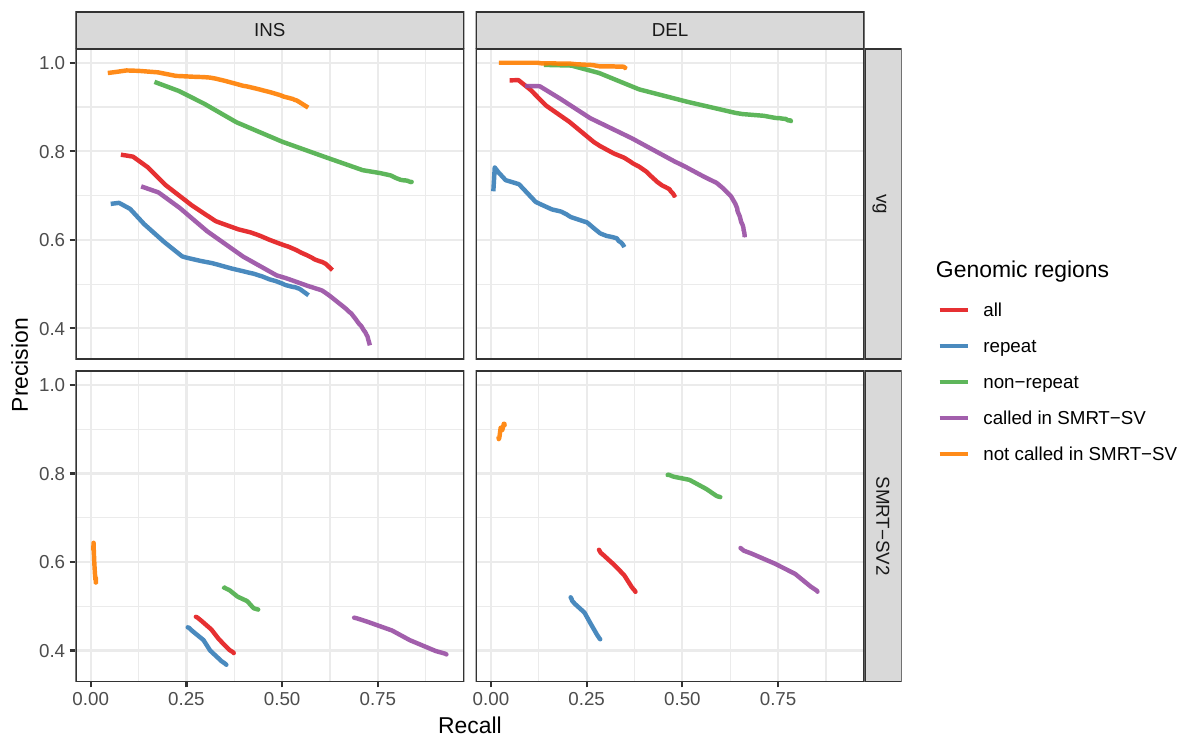
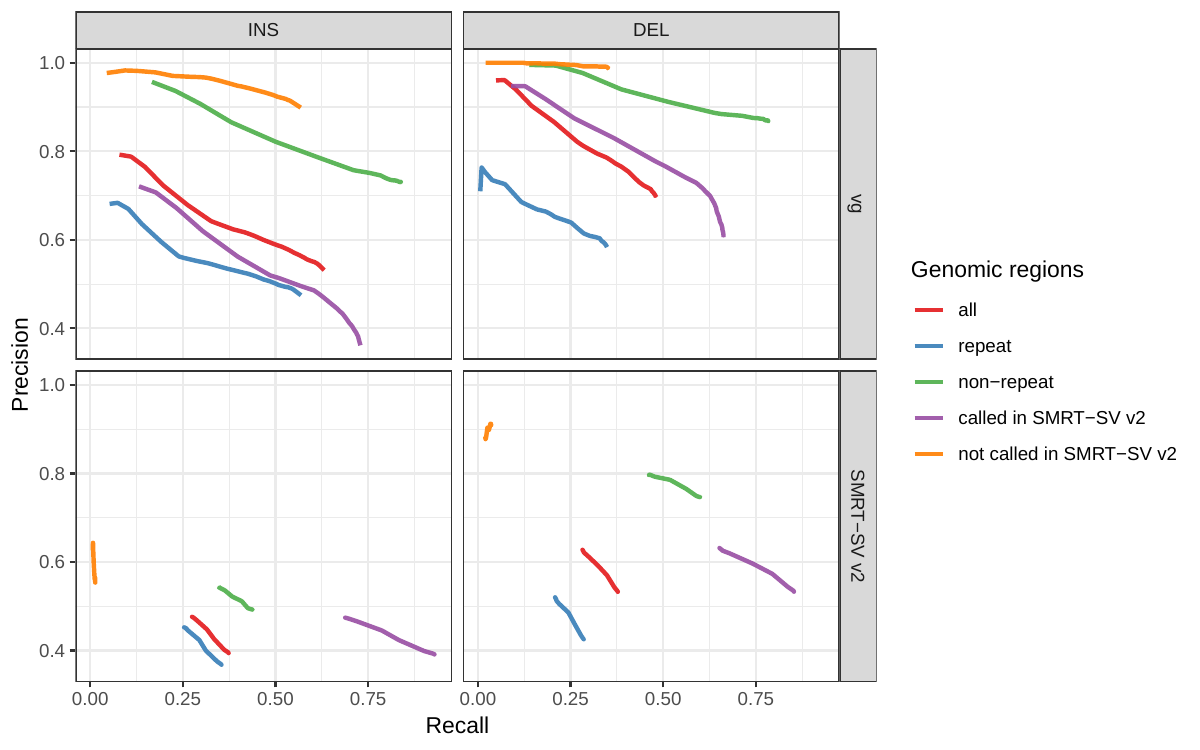
rename to SMRT-SV v2 in figures

diff --git a/figures/tables/svpop-regions.md b/figures/tables/svpop-regions.md
@@ -1,26 +1,26 @@
-|method   |region                |type | TP.baseline|   FP|   FN| precision| recall|    F1|
-|:--------|:---------------------|:----|-----------:|----:|----:|---------:|------:|-----:|
-|vg       |all                   |INS  |        8618| 7237| 5416|     0.546|  0.614| 0.578|
-|vg       |all                   |DEL  |        4762| 2048| 5145|     0.696|  0.481| 0.569|
-|vg       |all                   |INV  |          11|    8|   54|     0.579|  0.169| 0.262|
-|vg       |repeat                |INS  |        6176| 6923| 4678|     0.475|  0.569| 0.518|
-|vg       |repeat                |DEL  |        2428| 1701| 4542|     0.584|  0.348| 0.436|
-|vg       |repeat                |INV  |           1|    1|    6|     0.500|  0.143| 0.222|
-|vg       |non-repeat            |INS  |        2677|  987|  514|     0.731|  0.839| 0.781|
-|vg       |non-repeat            |DEL  |        1180|  176|  321|     0.869|  0.786| 0.825|
-|vg       |non-repeat            |INV  |           7|    4|   20|     0.636|  0.259| 0.368|
-|vg       |called in SMRT-SV     |INS  |        3410| 3789| 2108|     0.478|  0.618| 0.539|
-|vg       |called in SMRT-SV     |DEL  |        2544| 1092| 1518|     0.699|  0.626| 0.661|
-|vg       |called in SMRT-SV     |INV  |           8|    8|   52|     0.500|  0.133| 0.210|
-|vg       |not called in SMRT-SV |INS  |        4838|  542| 3678|     0.899|  0.568| 0.696|
-|vg       |not called in SMRT-SV |DEL  |        2034|   26| 3723|     0.987|  0.353| 0.520|
-|SMRT-SV2 |all                   |INS  |        5245| 8563| 8789|     0.394|  0.374| 0.384|
-|SMRT-SV2 |all                   |DEL  |        3741| 3382| 6166|     0.533|  0.378| 0.442|
-|SMRT-SV2 |repeat                |INS  |        3848| 7125| 7006|     0.368|  0.354| 0.361|
-|SMRT-SV2 |repeat                |DEL  |        1990| 2832| 4980|     0.426|  0.286| 0.342|
-|SMRT-SV2 |non-repeat            |INS  |        1396| 1468| 1795|     0.493|  0.438| 0.464|
-|SMRT-SV2 |non-repeat            |DEL  |         901|  308|  600|     0.745|  0.600| 0.665|
-|SMRT-SV2 |called in SMRT-SV     |INS  |        4343| 5595| 1175|     0.445|  0.787| 0.569|
-|SMRT-SV2 |called in SMRT-SV     |DEL  |        3227| 2451|  835|     0.573|  0.794| 0.666|
-|SMRT-SV2 |not called in SMRT-SV |INS  |         116|  109| 8400|     0.551|  0.014| 0.026|
-|SMRT-SV2 |not called in SMRT-SV |DEL  |         206|   16| 5551|     0.911|  0.036| 0.069|
+|method     |region                   |type | TP.baseline|   FP|   FN| precision| recall|    F1|
+|:----------|:------------------------|:----|-----------:|----:|----:|---------:|------:|-----:|
+|vg         |all                      |INS  |        8618| 7237| 5416|     0.546|  0.614| 0.578|
+|vg         |all                      |DEL  |        4762| 2048| 5145|     0.696|  0.481| 0.569|
+|vg         |all                      |INV  |          11|    8|   54|     0.579|  0.169| 0.262|
+|vg         |repeat                   |INS  |        6176| 6923| 4678|     0.475|  0.569| 0.518|
+|vg         |repeat                   |DEL  |        2428| 1701| 4542|     0.584|  0.348| 0.436|
+|vg         |repeat                   |INV  |           1|    1|    6|     0.500|  0.143| 0.222|
+|vg         |non-repeat               |INS  |        2677|  987|  514|     0.731|  0.839| 0.781|
+|vg         |non-repeat               |DEL  |        1180|  176|  321|     0.869|  0.786| 0.825|
+|vg         |non-repeat               |INV  |           7|    4|   20|     0.636|  0.259| 0.368|
+|vg         |called in SMRT-SV v2     |INS  |        3410| 3789| 2108|     0.478|  0.618| 0.539|
+|vg         |called in SMRT-SV v2     |DEL  |        2544| 1092| 1518|     0.699|  0.626| 0.661|
+|vg         |called in SMRT-SV v2     |INV  |           8|    8|   52|     0.500|  0.133| 0.210|
+|vg         |not called in SMRT-SV v2 |INS  |        4838|  542| 3678|     0.899|  0.568| 0.696|
+|vg         |not called in SMRT-SV v2 |DEL  |        2034|   26| 3723|     0.987|  0.353| 0.520|
+|SMRT-SV v2 |all                      |INS  |        5245| 8563| 8789|     0.394|  0.374| 0.384|
+|SMRT-SV v2 |all                      |DEL  |        3741| 3382| 6166|     0.533|  0.378| 0.442|
+|SMRT-SV v2 |repeat                   |INS  |        3848| 7125| 7006|     0.368|  0.354| 0.361|
+|SMRT-SV v2 |repeat                   |DEL  |        1990| 2832| 4980|     0.426|  0.286| 0.342|
+|SMRT-SV v2 |non-repeat               |INS  |        1396| 1468| 1795|     0.493|  0.438| 0.464|
+|SMRT-SV v2 |non-repeat               |DEL  |         901|  308|  600|     0.745|  0.600| 0.665|
+|SMRT-SV v2 |called in SMRT-SV v2     |INS  |        4343| 5595| 1175|     0.445|  0.787| 0.569|
+|SMRT-SV v2 |called in SMRT-SV v2     |DEL  |        3227| 2451|  835|     0.573|  0.794| 0.666|
+|SMRT-SV v2 |not called in SMRT-SV v2 |INS  |         116|  109| 8400|     0.551|  0.014| 0.026|
+|SMRT-SV v2 |not called in SMRT-SV v2 |DEL  |         206|   16| 5551|     0.911|  0.036| 0.069|

diff --git a/figures/tables/svpop.md b/figures/tables/svpop.md
@@ -1,14 +1,14 @@
-|method   |region     |type | TP.baseline|    FP|    FN| precision| recall|    F1|
-|:--------|:----------|:----|-----------:|-----:|-----:|---------:|------:|-----:|
-|vg       |all        |INS  |       25837| 22049| 15773|     0.540|  0.621| 0.577|
-|vg       |all        |DEL  |       14545|  6824| 15425|     0.681|  0.485| 0.567|
-|vg       |all        |INV  |          27|    26|   173|     0.509|  0.135| 0.213|
-|vg       |non-repeat |INS  |        8051|  3258|  1817|     0.712|  0.816| 0.760|
-|vg       |non-repeat |DEL  |        3769|   623|   818|     0.858|  0.822| 0.840|
-|vg       |non-repeat |INV  |          19|    12|    75|     0.613|  0.202| 0.304|
-|SMRT-SV2 |all        |INS  |       16270| 26031| 25340|     0.385|  0.391| 0.388|
-|SMRT-SV2 |all        |DEL  |       11793| 10106| 18177|     0.539|  0.393| 0.455|
-|SMRT-SV2 |all        |INV  |           0|     0|   200|       NaN|  0.000| 0.000|
-|SMRT-SV2 |non-repeat |INS  |        4483|  4659|  5385|     0.490|  0.454| 0.472|
-|SMRT-SV2 |non-repeat |DEL  |        2928|   930|  1659|     0.759|  0.638| 0.693|
-|SMRT-SV2 |non-repeat |INV  |           0|     0|    94|       NaN|  0.000| 0.000|
+|method     |region     |type | TP.baseline|    FP|    FN| precision| recall|    F1|
+|:----------|:----------|:----|-----------:|-----:|-----:|---------:|------:|-----:|
+|vg         |all        |INS  |       25837| 22049| 15773|     0.540|  0.621| 0.577|
+|vg         |all        |DEL  |       14545|  6824| 15425|     0.681|  0.485| 0.567|
+|vg         |all        |INV  |          27|    26|   173|     0.509|  0.135| 0.213|
+|vg         |non-repeat |INS  |        8051|  3258|  1817|     0.712|  0.816| 0.760|
+|vg         |non-repeat |DEL  |        3769|   623|   818|     0.858|  0.822| 0.840|
+|vg         |non-repeat |INV  |          19|    12|    75|     0.613|  0.202| 0.304|
+|SMRT-SV v2 |all        |INS  |       16270| 26031| 25340|     0.385|  0.391| 0.388|
+|SMRT-SV v2 |all        |DEL  |       11793| 10106| 18177|     0.539|  0.393| 0.455|
+|SMRT-SV v2 |all        |INV  |           0|     0|   200|       NaN|  0.000| 0.000|
+|SMRT-SV v2 |non-repeat |INS  |        4483|  4659|  5385|     0.490|  0.454| 0.472|
+|SMRT-SV v2 |non-repeat |DEL  |        2928|   930|  1659|     0.759|  0.638| 0.693|
+|SMRT-SV v2 |non-repeat |INV  |           0|     0|    94|       NaN|  0.000| 0.000|

diff --git a/figures/tables/chmpd-geno-precision-recall-F1.md b/figures/tables/chmpd-geno-precision-recall-F1.md
@@ -1,10 +1,10 @@
-|method   |region     |type | precision| recall|    F1|
-|:--------|:----------|:----|---------:|------:|-----:|
-|vg       |all        |INS  |     0.665|  0.661| 0.663|
-|vg       |all        |DEL  |     0.688|  0.500| 0.579|
-|vg       |non-repeat |INS  |     0.806|  0.784| 0.795|
-|vg       |non-repeat |DEL  |     0.869|  0.762| 0.812|
-|SMRT-SV2 |all        |INS  |     0.757|  0.536| 0.628|
-|SMRT-SV2 |all        |DEL  |     0.848|  0.630| 0.723|
-|SMRT-SV2 |non-repeat |INS  |     0.880|  0.680| 0.767|
-|SMRT-SV2 |non-repeat |DEL  |     0.971|  0.824| 0.891|
+|method     |region     |type | precision| recall|    F1|
+|:----------|:----------|:----|---------:|------:|-----:|
+|vg         |all        |INS  |     0.665|  0.661| 0.663|
+|vg         |all        |DEL  |     0.688|  0.500| 0.579|
+|vg         |non-repeat |INS  |     0.806|  0.784| 0.795|
+|vg         |non-repeat |DEL  |     0.869|  0.762| 0.812|
+|SMRT-SV v2 |all        |INS  |     0.757|  0.536| 0.628|
+|SMRT-SV v2 |all        |DEL  |     0.848|  0.630| 0.723|
+|SMRT-SV v2 |non-repeat |INS  |     0.880|  0.680| 0.767|
+|SMRT-SV v2 |non-repeat |DEL  |     0.971|  0.824| 0.891|

diff --git a/figures/tables/hgsvc-giab-chmpd-svpop-geno-precision-recall-F1.md b/figures/tables/hgsvc-giab-chmpd-svpop-geno-precision-recall-F1.md
@@ -24,5 +24,5 @@
 |GiaB                  |Delly      |DEL  |0.722 (0.822) |0.645 (0.768) |0.681 (0.794) |
 |CHM-PD                |vg         |INS  |0.665 (0.806) |0.661 (0.784) |0.663 (0.795) |
 |CHM-PD                |vg         |DEL  |0.688 (0.869) |0.5 (0.762)   |0.579 (0.812) |
-|CHM-PD                |SMRT-SV2   |INS  |0.757 (0.88)  |0.536 (0.68)  |0.628 (0.767) |
-|CHM-PD                |SMRT-SV2   |DEL  |0.848 (0.971) |0.63 (0.824)  |0.723 (0.891) |
+|CHM-PD                |SMRT-SV v2 |INS  |0.757 (0.88)  |0.536 (0.68)  |0.628 (0.767) |
+|CHM-PD                |SMRT-SV v2 |DEL  |0.848 (0.971) |0.63 (0.824)  |0.723 (0.891) |
